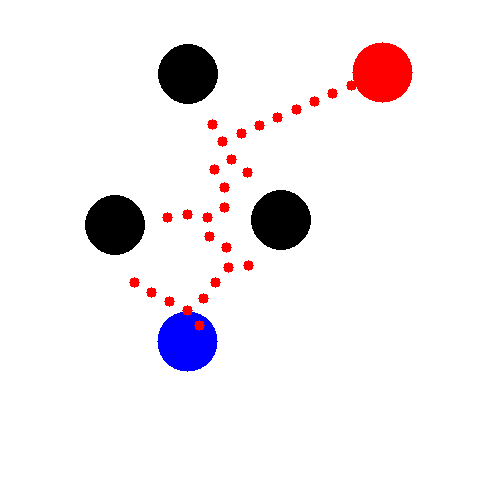
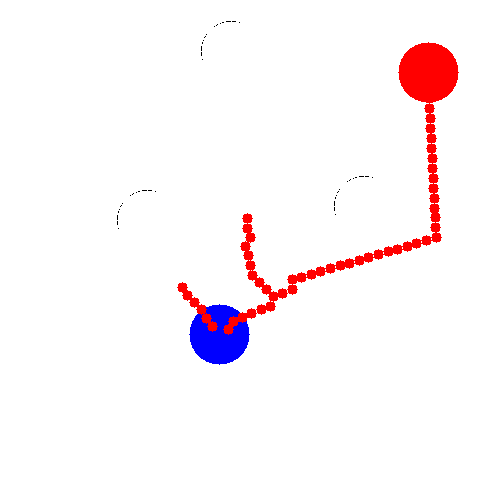
add results for CMD 1 and 2 in mobile robot

diff --git a/new_driver.py b/new_driver.py
@@ -22,20 +22,50 @@ assert(driverRRT.collision_free(robot.pose))
 markedImage=mapImage.copy()
 cv2.circle(markedImage,(int(start[0]),int(start[1])),radius_obstacle,(255,0,0),-1)
 cv2.circle(markedImage,(int(goal[0]),int(goal[1])),radius_obstacle,(0,0,255),-1)
+
+Checkpoint0=(436,238)
+# Checkpoint1=(64, 126)
+# Checkpoint2=(251, 146)
+# cv2.circle(markedImage,(int(Checkpoint0[0]),int(Checkpoint0[1])),radius_obstacle,(255,0,0),-1)
+# cv2.circle(markedImage,(int(Checkpoint1[0]),int(Checkpoint1[1])),radius_obstacle,(255,0,0),-1)
+# cv2.circle(markedImage,(int(Checkpoint2[0]),int(Checkpoint2[1])),radius_obstacle,(0,0,255),-1)
+
+# for obs in driverRRT.obstacles:
+#     cv2.circle(markedImage,(int(obs[0]),int(obs[1])),radius_obstacle,(0,0,0),-1)
 treeImage=markedImage.copy()
 
+driverRRT.goal=Checkpoint0
 # Run the RRT* algorithm
 while max_iterations:
+    
     eps=np.random.uniform()
     q = driverRRT.get_random_config(Background.image.get_width(),Background.image.get_height())
-    if eps<0.4:
-        q=goal
+    if eps<0.6:
+        q=driverRRT.goal 
+    
+    if max_iterations==965:
+        driverRRT.obstacles=driverRRT.obstacles[:3]
+        driverRRT.goal=goal
+        for obs in driverRRT.obstacles:
+            cv2.circle(treeImage,(int(obs[0]),int(obs[1])),radius_obstacle,(255,255,255),-1)
+
+      
+
     q_near_index = driverRRT.nearest_vertex(q)
     q_near=driverRRT.vertices[q_near_index]
     q_new = driverRRT.steer(q_near, q)
+    bufferImage=markedImage.copy()
+    # cv2.circle(bufferImage,(int(q_new[0]),int(q_new[1])),robot_radius,(255,255,0),-1)
+    # cv2.imwrite('buf.png',bufferImage)
+    # input()
     if q_new[0]<0 or q_new[0]>Background.image.get_width() or q_new[1]<0 or q_new[1]>Background.image.get_height():
+        # print('Not Passed')
         continue
     if not driverRRT.collision_free(q_new):
+        # print('Not Passed')
+        continue
+    if q_new in driverRRT.vertices:
+        # print('Not Passed')
         continue
     if driverRRT.collision_free_path(q_near, q_new):
         print(max_iterations)
@@ -45,7 +75,7 @@ while max_iterations:
         cv2.circle(treeImage,(int(q_new[0]),int(q_new[1])),5,(0,0,255),-1)
         cv2.imwrite("tree.png",treeImage)
         # Check if we've reached the goal
-        if driverRRT.distance(q_new, goal) < driverRRT.goal_tolerance:
+        if driverRRT.goal==goal and driverRRT.distance(q_new, driverRRT.goal) < driverRRT.goal_tolerance:
             print('Goal Reached')
             driverRRT.add_vertex(goal,q_near_index)
             driverRRT.rewire(goal)
@@ -57,10 +87,10 @@ pathImage=markedImage.copy()
 path = driverRRT.get_path_to_goal()
 path.reverse()
 for points in path:
-    cv2.circle(pathImage,(int(points[0]),int(points[1])),radius_obstacle,(0,255,0))
+    cv2.circle(pathImage,(int(points[0]),int(points[1])),robot_radius,(0,255,0))
 
 with open("paths.txt","a") as f:
-    f.write('Original Path: ')
+    f.write('Corrected Path: ')
     for points in path:
         f.write('('+str(points[0])+','+str(points[1])+') ')
     f.write('\n')

diff --git a/robots.py b/robots.py
@@ -22,7 +22,7 @@ class MobileRobot:
         d=sqrt((x1-x0)**2 + (y1-y0)**2)
 
         # non intersecting
-        if d > r0 + r1 :
+        if d > r0 + r1:
             return False
         # # One circle within other
         # if d < abs(r0-r1):
@@ -45,8 +45,8 @@ class MobileRobot:
         x = np.random.uniform(xBound)
         y = np.random.uniform(yBound)
         while self.check_safe((x,y),obstacles_list,radius_obstacle):
-            x = np.random.uniform(xBound)
-            y = np.random.uniform(yBound)
+            x = np.random.randint(xBound)
+            y = np.random.randint(yBound)
         return (x, y)
     def steer(self,old_config,new_config,step_size):
         direction=atan2(new_config[1]-old_config[1],new_config[0]-old_config[0])

diff --git a/RRT_Star.py b/RRT_Star.py
@@ -4,7 +4,7 @@ from robots import *
 from collections import defaultdict
 
 class RRTStar:
-    def __init__(self, robot_type, start, goal,obstacles_list,radius_obstacle,occupancy_map=None, max_iterations=1000, step_size=0.1, goal_tolerance=35, rewiring_radius=25.0):
+    def __init__(self, robot_type, start, goal,obstacles_list,radius_obstacle,occupancy_map=None, max_iterations=1000, step_size=0.1, goal_tolerance=10, rewiring_radius=25.0):
         self.robot_type = robot_type
         self.start = start
         self.goal = goal
